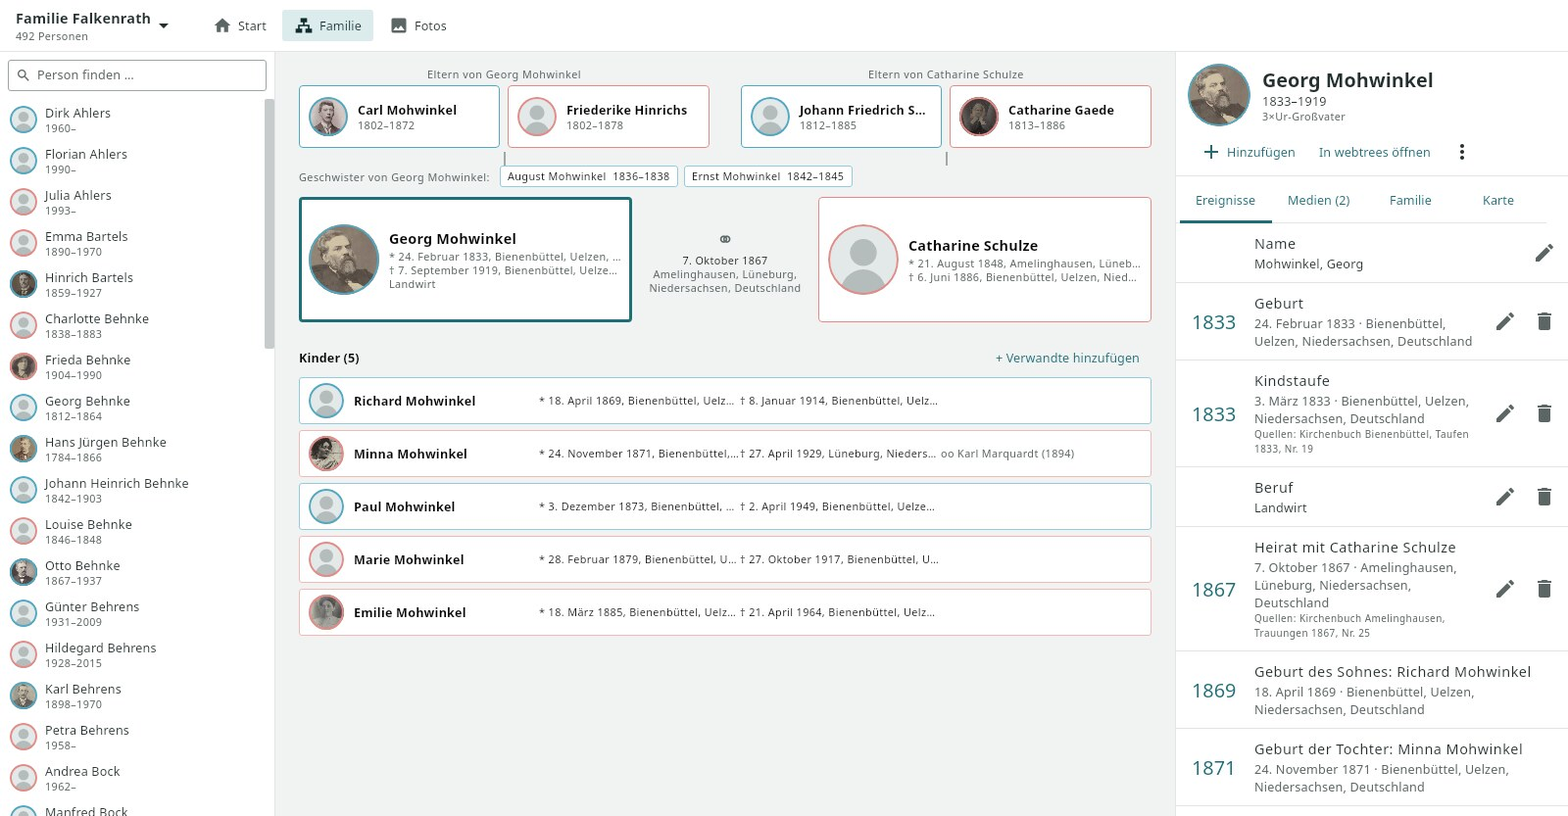
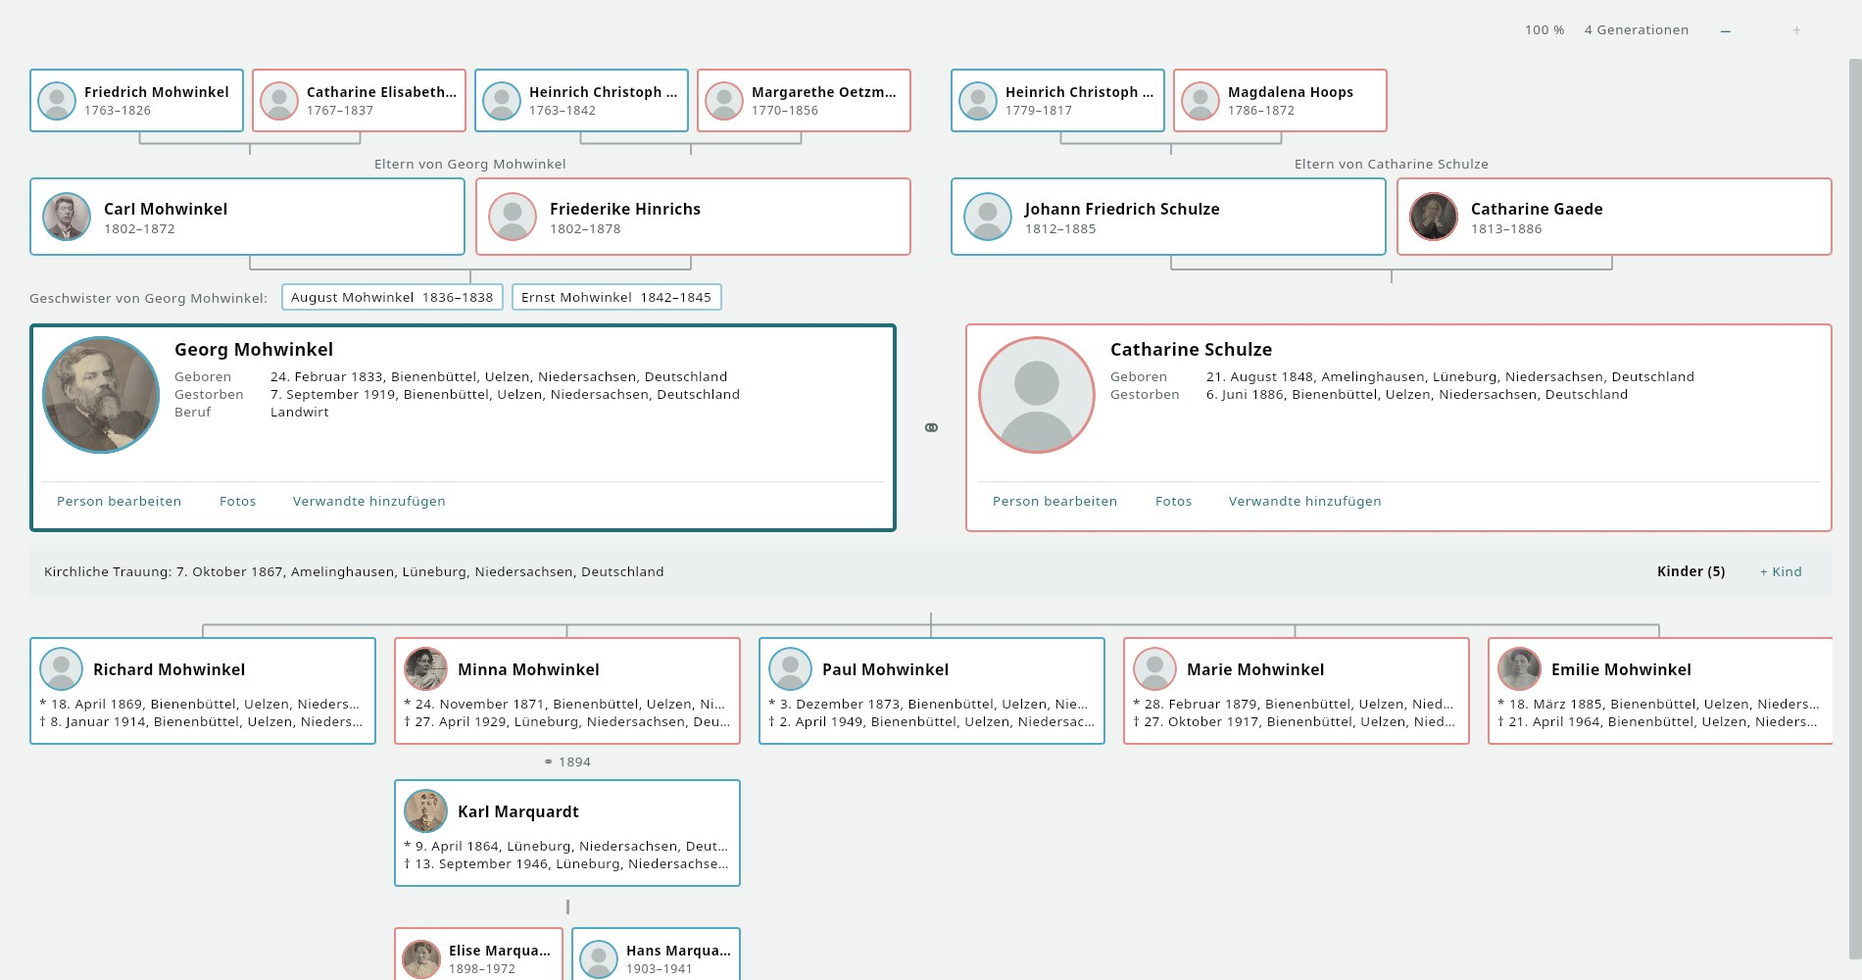
Person loeschen auch im Menue Person und per Rechtsklick in Navigator, Familienansicht und Personentabelle (Loeschwahl, eine Rueckfrage im Hauptfenster); Hilfe Familienansicht in fuenf Sprachen; lokales Paket api4webtrees 1.17.1; README und Release-Notiz 1.36 mit Familienansicht und Bild; desktopBui

Changed region(s): [[0.0, 0.0, 1.0, 1.0], [0.1875, 0.9364, 0.4062, 1.0], [0.0, 0.0, 0.0938, 0.0312]]

diff --git a/shared/src/desktopMain/kotlin/de/bgghome/webtrees/nativ/desk/DeskRoot.kt b/shared/src/desktopMain/kotlin/de/bgghome/webtrees/nativ/desk/DeskRoot.kt
@@ -355,6 +355,7 @@ fun FrameWindowScope.DeskRoot(viewModel: AppViewModel, onQuit: () -> Unit) {
         quellen?.let { start -> if (state.tree != null) QuellenFenster(state, viewModel, start, openWeb, onClose = { quellen = null }) }
         orte?.let { start -> if (state.tree != null) OrteFenster(state, viewModel, start, openWeb, onClose = { orte = null; orteBereinigen = false }, onBlatt = openSheet, bereinigen = orteBereinigen) }
         if (goTo) GoToDialog(state, viewModel, openWeb, onClose = { goTo = false })
+        LoeschRueckfrage(viewModel)
         liste?.let { art -> ListenFenster(art, state, viewModel, onClose = { liste = null }) }
         HilfeFenster()
         if (startperson) StartpersonDialog(state, viewModel, onClose = { startperson = false })
@@ -428,6 +429,8 @@ private fun FrameWindowScope.DeskMenuBar(
                 Item(stringResource(Res.string.action_add_relative), enabled = selected?.canEdit == true,
                     shortcut = KeyShortcut(Key.N, ctrl = true), onClick = { selected?.let { viewModel.requestAddRelative(it.person.xref) } })
                 onZusammenfuehren?.let { Item(stringResource(Res.string.desk_merge_menu), enabled = state.tree != null, onClick = it) }
+                Item(stringResource(Res.string.action_delete_person), enabled = selected?.canEdit == true,
+                    onClick = { selected?.let { Loeschwahl.person = it.person.xref to it.person.name } })
                 Item(stringResource(Res.string.chip_open_web), enabled = selected != null, onClick = { selected?.let { openWeb(it.person.url) } })
                 if (viewModel.bookmarksSupported) {
                     val root = state.root

diff --git a/shared/src/desktopMain/kotlin/de/bgghome/webtrees/nativ/desk/PersonLoeschen.kt b/shared/src/desktopMain/kotlin/de/bgghome/webtrees/nativ/desk/PersonLoeschen.kt
@@ -1,0 +1,32 @@
+package de.bgghome.webtrees.nativ.desk
+
+import androidx.compose.runtime.Composable
+import androidx.compose.runtime.getValue
+import androidx.compose.runtime.mutableStateOf
+import androidx.compose.runtime.setValue
+import de.bgghome.webtrees.nativ.res.*
+import de.bgghome.webtrees.nativ.ui.AppViewModel
+import de.bgghome.webtrees.nativ.ui.ConfirmDialog
+import de.bgghome.webtrees.nativ.ui.deletePerson
+import org.jetbrains.compose.resources.stringResource
+
+/**
+ * "Person loeschen ..." aus Menue und Rechtsklick-Menues (Navigator, Familienansicht, Personentabelle): die Menues setzen
+ * nur die Person, die Rueckfrage zeichnet das Hauptfenster - dieselbe wie unten im Personenblatt.
+ */
+object Loeschwahl {
+    /** Kennung und Name der Person, nach der gefragt wird; null = keine Rueckfrage offen. */
+    var person: Pair<String, String>? by mutableStateOf(null)
+}
+
+@Composable
+fun LoeschRueckfrage(viewModel: AppViewModel) {
+    val (xref, name) = Loeschwahl.person ?: return
+    ConfirmDialog(
+        title = stringResource(Res.string.delete_person_title, name),
+        text = stringResource(Res.string.delete_person_text),
+        confirm = stringResource(Res.string.action_delete),
+        onDismiss = { Loeschwahl.person = null },
+        onConfirm = { Loeschwahl.person = null; viewModel.deletePerson(xref) },
+    )
+}

diff --git a/shared/src/desktopMain/kotlin/de/bgghome/webtrees/nativ/desk/Navigator.kt b/shared/src/desktopMain/kotlin/de/bgghome/webtrees/nativ/desk/Navigator.kt
@@ -664,6 +664,8 @@ private fun PersonBox(
     val name = registerName(person, stringResource(Res.string.person_private), stringResource(Res.string.person_no_name))
     val asCentre = stringResource(Res.string.desk_as_centre); val edit = stringResource(Res.string.desk_sheet); val web = stringResource(Res.string.chip_open_web)
     val merken = stringResource(Res.string.desk_bookmark_add); val merkWeg = stringResource(Res.string.desk_bookmark_remove)
+    val loeschen = stringResource(Res.string.action_delete_person)
+    val darfLoeschen = viewModel.uiState.value.tree?.canEdit == true
     val onSurface = MaterialTheme.colorScheme.onSurface
     val stil = LocalNavStil.current
     val linie = LocalFarben.current[person.xref]
@@ -676,6 +678,7 @@ private fun PersonBox(
             ContextMenuItem(edit) { onOpenSheet(person.xref) },
             if (viewModel.bookmarksSupported) ContextMenuItem(if (viewModel.isBookmarked(person.xref)) merkWeg else merken) { viewModel.toggleBookmark(person.xref) } else null,
             ContextMenuItem(web) { openWeb(person.url) },
+            if (darfLoeschen) ContextMenuItem(loeschen) { Loeschwahl.person = person.xref to person.name } else null,
         )
     }) {
         Row(

diff --git a/shared/src/desktopMain/kotlin/de/bgghome/webtrees/nativ/desk/PersonenTabelle.kt b/shared/src/desktopMain/kotlin/de/bgghome/webtrees/nativ/desk/PersonenTabelle.kt
@@ -306,7 +306,8 @@ internal fun PersonenTabelleInhalt(state: UiState, viewModel: AppViewModel, open
                                             ContextMenuItem(Texte.t(Res.string.action_make_root)) { viewModel.setRoot(z.xref) },
                                             ContextMenuItem(Texte.t(Res.string.desk_sheet)) { openSheet(z.xref) },
                                             ContextMenuItem(Texte.t(Res.string.chip_open_web)) { openWeb(z.url) },
-                                        ) + listOfNotNull(onZusammenfuehren?.let { f -> ContextMenuItem(Texte.t(Res.string.desk_merge_with)) { f(z.xref) } })
+                                        ) + listOfNotNull(onZusammenfuehren?.let { f -> ContextMenuItem(Texte.t(Res.string.desk_merge_with)) { f(z.xref) } },
+                                            if (state.tree?.canEdit == true) ContextMenuItem(Texte.t(Res.string.action_delete_person)) { Loeschwahl.person = z.xref to z.name } else null)
                                     }) {
                                         Row(
                                             Modifier.fillMaxWidth()

diff --git a/shared/src/desktopMain/kotlin/de/bgghome/webtrees/nativ/desk/Familienansicht.kt b/shared/src/desktopMain/kotlin/de/bgghome/webtrees/nativ/desk/Familienansicht.kt
@@ -452,6 +452,7 @@ private fun Anklickbar(person: Person, a: KartenAktionen, inhalt: @Composable (M
             a.openSheet?.let { s -> add(ContextMenuItem(Texte.t(Res.string.desk_sheet)) { s(person.xref) }) }
             if (a.canEdit) add(ContextMenuItem(Texte.t(Res.string.action_add_relative)) { a.viewModel.requestAddRelative(person.xref) })
             add(ContextMenuItem(Texte.t(Res.string.chip_open_web)) { a.openWeb(person.url) })
+            if (a.canEdit) add(ContextMenuItem(Texte.t(Res.string.action_delete_person)) { Loeschwahl.person = person.xref to person.name })
         }
     }) {
         inhalt(Modifier.fokusRahmen().combinedClickable(onDoubleClick = { a.viewModel.setRoot(person.xref) }) { a.viewModel.select(person.xref) })

diff --git a/shared/src/desktopMain/resources/hilfe/fr/hauptfenster.md b/shared/src/desktopMain/resources/hilfe/fr/hauptfenster.md
@@ -24,13 +24,14 @@ En dézoomant, une case montre moins de choses plutôt que de rapetisser : d'abo
 
 ## Vue famille
 
-Comme « Arbre au centre », mais le milieu montre la **famille** de la personne centrale : en haut les parents des deux conjoints, au milieu le couple avec son mariage, en dessous les enfants avec leurs dates et leurs mariages. Si la personne s'est mariée plusieurs fois, chaque mariage a son propre **onglet**.
+Le milieu montre la **famille** de la personne centrale, disposée comme dans les logiciels de généalogie classiques : en haut les ancêtres des deux conjoints sur **2 à 4 générations** (− et + en haut à droite, mémorisé), en dessous les parents, au milieu le couple sous forme de grandes cartes avec portrait, naissance, décès et profession, entre les deux la ligne d'état avec tous les mariages et le nombre d'enfants, en bas les **enfants avec leurs conjoints** et en dessous les **petits-enfants**. Des lignes continues relient les générations. Si la personne centrale a plusieurs mariages, chacun a son propre **onglet**.
 
-- **Un clic** sélectionne une personne ; le panneau de la personne à droite l'affiche.
-- **Un double-clic** en fait la personne centrale – c'est ainsi que vous parcourez les familles vers le haut (parents) et vers le bas (enfants).
-- **Bouton droit de la souris** : Mettre au centre, Ajouter un parent, Ouvrir dans webtrees.
+- **Ajuster à la fenêtre :** la famille est agrandie jusqu'à remplir la fenêtre (jusqu'à 180 %) ; le pourcentage est affiché en haut à droite. **Ctrl+molette** change le zoom, un clic sur le pourcentage réajuste.
+- **Un clic** sélectionne une personne ; le panneau de la personne à droite l'affiche. **Un double-clic** en fait la personne centrale – c'est ainsi que vous parcourez les familles vers le haut (parents, grands-parents) et vers le bas (enfants, petits-enfants).
+- **Boutons dans les cartes du couple :** Modifier la personne (fiche), Photos, Ajouter un parent. **+ Enfant** dans la ligne d'état ajoute un enfant de cette union.
+- **Bouton droit de la souris** sur chaque carte : Mettre au centre, Fiche de la personne, Ajouter un parent, Ouvrir dans webtrees, Supprimer la personne (avec droits de modification, après confirmation).
 - Un parent manquant apparaît comme « Père inconnu » ou « Mère inconnue » ; avec les droits de modification, **+ ajouter** le crée.
-- La **fratrie** de la personne centrale est affichée au-dessus du couple. **Clavier :** flèche haut vers le père (avec Shift vers la mère), bas vers l'enfant, gauche/droite pour parcourir la fratrie, Tab pour l'onglet suivant.
+- La **fratrie** de la personne centrale est affichée au-dessus du couple. **Clavier :** flèche haut vers le père (avec Shift vers la mère), bas vers l'enfant, gauche/droite pour parcourir la fratrie, Tab vers l'onglet suivant.
 
 La [table des personnes](hilfe:tabelle) (Ctrl+4) montre tout le monde sous forme de tableau.
 

diff --git a/shared/src/desktopMain/resources/hilfe/es/hauptfenster.md b/shared/src/desktopMain/resources/hilfe/es/hauptfenster.md
@@ -24,11 +24,12 @@ Al alejar el zoom, una tarjeta muestra menos en lugar de hacerse más pequeña: 
 
 ## Vista de familia
 
-Como «Árbol en el centro», pero en el centro aparece la **familia** de la persona central: arriba los padres de ambos miembros de la pareja, en el centro la pareja con su matrimonio y abajo los hijos con sus fechas y matrimonios. Si la persona se casó más de una vez, cada matrimonio tiene su propia **pestaña**.
+En el centro aparece la **familia** de la persona central, dispuesta como en los programas de genealogía clásicos: arriba los antepasados de ambos miembros de la pareja a lo largo de **2 a 4 generaciones** (− y + arriba a la derecha, se recuerda), debajo los padres, en el centro la pareja como tarjetas grandes con retrato, nacimiento, defunción y profesión, entre ambas la línea de estado con todos los matrimonios y el número de hijos, abajo los **hijos con sus cónyuges** y debajo los **nietos**. Líneas continuas unen las generaciones. Si la persona central tiene varios matrimonios, cada uno tiene su propia **pestaña**.
 
-- **Un clic** selecciona a una persona; el panel de persona de la derecha la muestra.
-- **Doble clic** la convierte en persona central: así se recorren las familias hacia arriba (padres) y hacia abajo (hijos).
-- **Botón derecho del ratón**: Mostrar como persona central, Añadir pariente, Abrir en webtrees.
+- **Ajustar a la ventana:** la familia se amplía hasta llenar la ventana (hasta el 180 %); el porcentaje aparece arriba a la derecha. **Ctrl+rueda del ratón** cambia el zoom, un clic en el porcentaje vuelve a ajustar.
+- **Un clic** selecciona a una persona; el panel de persona de la derecha la muestra. **Doble clic** la convierte en persona central: así se recorren las familias hacia arriba (padres, abuelos) y hacia abajo (hijos, nietos).
+- **Botones en las tarjetas de la pareja:** Editar persona (ficha), Fotos, Añadir pariente. **+ Hijo/a** en la línea de estado añade un hijo de esta unión.
+- **Botón derecho del ratón** en cualquier tarjeta: Mostrar como persona central, Ficha de la persona, Añadir pariente, Abrir en webtrees, Eliminar persona (con derechos de edición, tras confirmación).
 - Un progenitor que falta aparece como «Padre desconocido» o «Madre desconocida»; con derechos de edición, **+ añadir** lo crea.
 - Los **hermanos** de la persona central se muestran encima de la pareja. **Teclado:** flecha arriba al padre (con Shift a la madre), abajo al hijo, izquierda/derecha por los hermanos, Tab a la pestaña siguiente.
 

diff --git a/shared/src/desktopMain/resources/hilfe/nl/hauptfenster.md b/shared/src/desktopMain/resources/hilfe/nl/hauptfenster.md
@@ -24,11 +24,12 @@ Bij het uitzoomen toont een kaart minder in plaats van kleiner: eerst zonder fot
 
 ## Gezinsweergave
 
-Zoals „Boom centraal“, maar in het midden staat het **gezin** van de proband: bovenaan de ouders van beide partners, in het midden het paar met hun huwelijk, daaronder de kinderen met hun data en huwelijken. Is de persoon meer dan eens getrouwd, dan heeft elk huwelijk een eigen **tabblad**.
+In het midden staat het **gezin** van de proband, opgebouwd zoals in klassieke genealogieprogramma's: bovenaan de voorouders van beide partners over **2 tot 4 generaties** (− en + rechtsboven, onthouden), daaronder de ouders, in het midden het paar als grote kaarten met portret, geboren, overleden en beroep, daartussen de statusregel met alle huwelijken en het aantal kinderen, onderaan de **kinderen met hun partners** en daaronder de **kleinkinderen**. Doorlopende lijnen verbinden de generaties. Heeft de proband meerdere huwelijken, dan staat elk op een eigen **tabblad**.
 
-- **Een klik** selecteert een persoon; het persoonspaneel rechts toont hem of haar.
-- **Dubbelklik** maakt de persoon tot proband – zo gaat u door de gezinnen omhoog (ouders) en omlaag (kinderen).
-- **Rechtermuisknop**: Als proband, Verwant toevoegen, Openen in webtrees.
+- **Passend maken:** het gezin wordt vergroot tot het het venster vult (tot 180 %); het percentage staat rechtsboven. **Ctrl+muiswiel** verandert de zoom, een klik op het percentage past weer in.
+- **Een klik** selecteert een persoon; het persoonspaneel rechts toont hem of haar. **Dubbelklik** maakt de persoon tot proband – zo gaat u door de gezinnen omhoog (ouders, grootouders) en omlaag (kinderen, kleinkinderen).
+- **Knoppen in de paarkaarten:** Persoon bewerken (persoonsblad), Foto's, Verwant toevoegen. **+ Kind** in de statusregel voegt een kind van deze relatie toe.
+- **Rechtermuisknop** op elke kaart: Als proband, Persoonsblad, Verwant toevoegen, Openen in webtrees, Persoon verwijderen (met bewerkingsrechten, na bevestiging).
 - Een ontbrekende ouder verschijnt als „Vader onbekend“ of „Moeder onbekend“; met bewerkingsrechten maakt **+ toevoegen** die persoon aan.
 - De **broers en zussen** van de proband staan boven het paar. **Toetsenbord:** pijl omhoog naar de vader (met Shift naar de moeder), omlaag naar het kind, links/rechts door de broers en zussen, Tab naar het volgende tabblad.
 

diff --git a/shared/src/desktopMain/resources/hilfe/de/hauptfenster.md b/shared/src/desktopMain/resources/hilfe/de/hauptfenster.md
@@ -24,11 +24,12 @@ Beim Herauszoomen zeigt eine Karte weniger statt kleiner: erst ohne Bild und Jah
 
 ## Familienansicht
 
-Wie „Baum im Mittelpunkt“, aber in der Mitte die **Familie** des Probanden: oben die Eltern beider Partner, in der Mitte das Paar mit der Heirat, darunter die Kinder mit ihren Lebensdaten und Ehen. Hat der Proband mehrere Ehen, steht jede auf einem eigenen **Reiter**.
+In der Mitte die **Familie** des Probanden, aufgebaut wie in klassischen Genealogie-Programmen: oben die Vorfahren beider Partner über **2 bis 4 Generationen** (− und + rechts oben, gemerkt), darunter die Eltern, in der Mitte das Paar als große Karten mit Porträt, Geboren, Gestorben und Beruf, dazwischen die Statuszeile mit allen Heiraten und der Zahl der Kinder, unten die **Kinder mit ihren Partnern** und darunter die **Enkel**. Durchgezogene Linien verbinden die Generationen. Hat der Proband mehrere Ehen, steht jede auf einem eigenen **Reiter**.
 
-- **Ein Klick** wählt eine Person, die Personentafel rechts zeigt sie.
-- **Doppelklick** macht sie zum Probanden – so gehst du durch die Familien nach oben (Eltern) und unten (Kinder).
-- **Rechte Maustaste**: Als Proband, Verwandte hinzufügen, in webtrees öffnen.
+- **Einpassen:** Die Familie wird so vergrößert, dass sie das Fenster füllt (bis 180 %); die Prozentzahl steht rechts oben. **Strg+Mausrad** ändert den Zoom, ein Klick auf die Prozentzahl passt wieder ein.
+- **Ein Klick** wählt eine Person, die Personentafel rechts zeigt sie. **Doppelklick** macht sie zum Probanden – so gehst du durch die Familien nach oben (Eltern, Großeltern) und unten (Kinder, Enkel).
+- **Knöpfe in den Paarkarten:** Person bearbeiten (Personenblatt), Fotos, Verwandte hinzufügen. **+ Kind** in der Statuszeile legt ein Kind dieser Partnerschaft an.
+- **Rechte Maustaste** auf jeder Karte: Als Proband, Personenblatt, Verwandte hinzufügen, in webtrees öffnen, Person löschen (mit Bearbeitungsrecht, nach Rückfrage).
 - Fehlt ein Elternteil, steht dort „Vater unbekannt“ bzw. „Mutter unbekannt“; mit Bearbeitungsrecht legst du ihn über **+ hinzufügen** an.
 - Über dem Paar stehen die **Geschwister** des Probanden. **Tastatur:** Pfeil hoch zum Vater (mit Umschalt zur Mutter), runter zum Kind, links/rechts durch die Geschwister, Tab zum nächsten Reiter.
 

diff --git a/shared/src/desktopMain/resources/hilfe/en/hauptfenster.md b/shared/src/desktopMain/resources/hilfe/en/hauptfenster.md
@@ -24,11 +24,12 @@ When zooming out a card shows less rather than smaller: first without picture an
 
 ## Family view
 
-Like "Tree in the centre", but the middle shows the central person's **family**: at the top the parents of both partners, in the middle the couple with their marriage, below the children with their dates and marriages. If the person married more than once, each marriage has its own **tab**.
+The middle shows the central person's **family**, laid out like classic genealogy programs: at the top the ancestors of both partners over **2 to 4 generations** (− and + at the top right, remembered), below them the parents, in the middle the couple as large cards with portrait, born, died and occupation, between them the status line with all marriages and the number of children, at the bottom the **children with their spouses** and below them the **grandchildren**. Continuous lines connect the generations. If the central person has several marriages, each has its own **tab**.
 
-- **A click** selects a person; the person panel on the right shows them.
-- **Double-click** makes them the central person – this is how you move through the families up (parents) and down (children).
-- **Right mouse button**: Show as focus, Add relative, Open in webtrees.
+- **Fit to window:** the family is enlarged until it fills the window (up to 180 %); the percentage is shown at the top right. **Ctrl+mouse wheel** changes the zoom, a click on the percentage fits again.
+- **A click** selects a person; the person panel on the right shows them. **Double-click** makes them the central person – this is how you move through the families up (parents, grandparents) and down (children, grandchildren).
+- **Buttons in the couple cards:** Edit person (person sheet), Photos, Add relative. **+ Child** in the status line adds a child of this partnership.
+- **Right mouse button** on any card: Show as focus, Person sheet, Add relative, Open in webtrees, Delete person (with edit rights, after confirmation).
 - A missing parent shows "Father unknown" or "Mother unknown"; with edit rights, **+ add** creates them.
 - The central person's **siblings** are shown above the couple. **Keyboard:** up arrow to the father (with Shift to the mother), down to the child, left/right through the siblings, Tab to the next tab.
 

diff --git a/README.md b/README.md
@@ -13,7 +13,12 @@
   <a href="https://github.com/thobgg/app4webtrees/releases/latest"><img src="https://img.shields.io/badge/macOS-wtMac%20.dmg%20(Test)-A2AAAD?style=for-the-badge&logo=apple&logoColor=white" alt="macOS: wtMac (.dmg), zum Testen"></a>
 </p>
 
-<p align="center"><b>Neu in 1.36: Personen zusammenführen.</b> Doppelte Personen findet die Plausibilitätsprüfung (gleicher Name und gleiches Ereignisdatum, oder ähnlich); unter Person › Personen zusammenführen stehen beide nebeneinander, du wählst, was bleibt – alle Verweise wandern mit. Jedes Zusammenführen steht im Protokoll und lässt sich rückgängig machen, auch Tage später. Braucht api4webtrees 1.16.0; nur für Verwalter des Stammbaums.</p>
+<p align="center"><b>Neu in 1.36: Personen zusammenführen.</b> Doppelte Personen findet die Plausibilitätsprüfung (gleicher Name und gleiches Ereignisdatum, oder ähnlich); unter Person › Personen zusammenführen stehen beide nebeneinander, du wählst, was bleibt – alle Verweise wandern mit. Jedes Zusammenführen steht im Protokoll und lässt sich rückgängig machen, auch Tage später. Braucht api4webtrees 1.17.1; nur für Verwalter des Stammbaums. <b>Familienansicht neu:</b> Vorfahren beider Partner über bis zu vier Generationen, Paarkarten, Kinder mit Partnern und Enkeln, Linien, eingepasst in die Fensterhöhe.</p>
+
+<p align="center">
+  <img src="docs/screenshots/desktop-familienansicht.jpg" alt="Familienansicht: Georg Mohwinkel und Catharine Schulze mit Großeltern, Eltern, Geschwistern, Statuszeile, fünf Kindern, Partner und Enkeln" width="100%">
+  <br><b>Familienansicht</b> (neu in 1.36) – Vorfahren oben, das Paar in der Mitte, Kinder mit Partnern und Enkeln unten, eingepasst in die Fensterhöhe.
+</p>
 
 <p align="center">
   <img src="docs/screenshots/desktop-zusammenfuehren.jpg" alt="Personen zusammenführen: zwei Johann Heinrich Falkenrath nebeneinander, je Ereignis ein Haken, darunter Verweise und ein weiteres Paar" width="100%">

diff --git a/README.en.md b/README.en.md
@@ -13,7 +13,12 @@
   <a href="https://github.com/thobgg/app4webtrees/releases/latest"><img src="https://img.shields.io/badge/macOS-wtMac%20.dmg%20(Test)-A2AAAD?style=for-the-badge&logo=apple&logoColor=white" alt="macOS: wtMac (.dmg), for testing"></a>
 </p>
 
-<p align="center"><b>New in 1.36: merging individuals.</b> The plausibility check finds duplicates (same name and one identical event date, or similar); Individual › Merge individuals shows both side by side and you choose what stays – all links move along. Every merge is logged and can be undone, even days later. Needs api4webtrees 1.16.0; tree managers only.</p>
+<p align="center"><b>New in 1.36: merging individuals.</b> The plausibility check finds duplicates (same name and one identical event date, or similar); Individual › Merge individuals shows both side by side and you choose what stays – all links move along. Every merge is logged and can be undone, even days later. Needs api4webtrees 1.17.1; tree managers only. <b>New family view:</b> ancestors of both partners over up to four generations, couple cards, children with spouses and grandchildren, lines, fitted to the window height.</p>
+
+<p align="center">
+  <img src="docs/screenshots/desktop-familienansicht.jpg" alt="Family view: Georg Mohwinkel and Catharine Schulze with grandparents, parents, siblings, status line, five children, a spouse and grandchildren" width="100%">
+  <br><b>Family view</b> (new in 1.36) – ancestors at the top, the couple in the middle, children with spouses and grandchildren at the bottom, fitted to the window height.
+</p>
 
 <p align="center">
   <img src="docs/screenshots/desktop-zusammenfuehren.jpg" alt="Merging individuals: two Johann Heinrich Falkenrath side by side, a tick per event, below the links and a further pair" width="100%">
